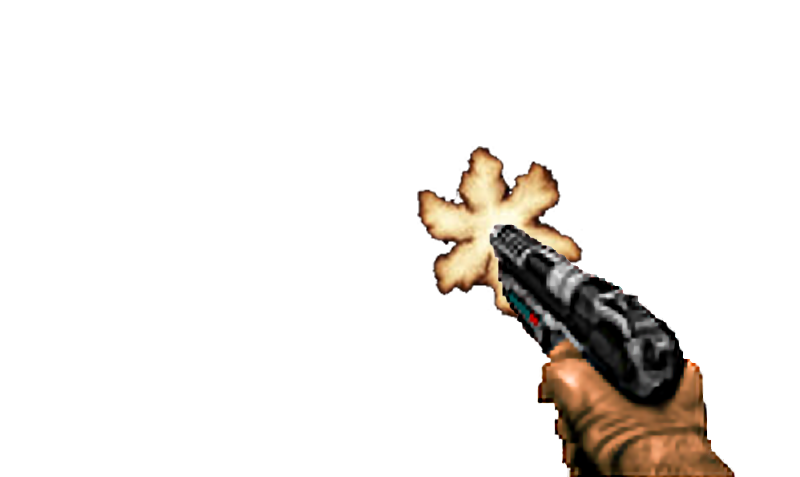
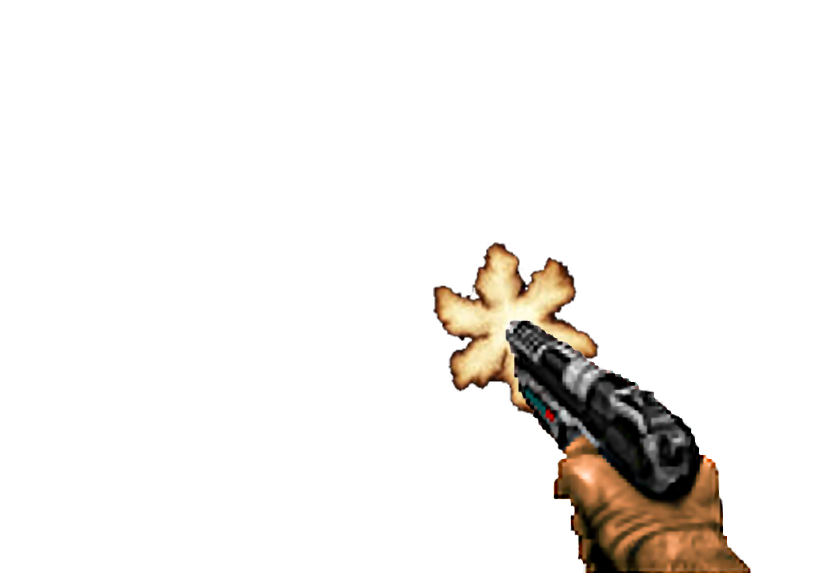
ajout sprites de tir

Changed region(s): [[0.5, 0.2935, 0.9375, 1.0]]

diff --git a/srcs/player/t_player2.c b/srcs/player/t_player2.c
@@ -6,7 +6,7 @@
 /*   By: spuisais <spuisais@student.42.fr>          +#+  +:+       +#+        */
 /*                                                +#+#+#+#+#+   +#+           */
 /*   Created: 2020/01/15 15:53:46 by jubeal            #+#    #+#             */
-/*   Updated: 2020/01/20 13:26:11 by spuisais         ###   ########.fr       */
+/*   Updated: 2020/01/21 13:41:02 by spuisais         ###   ########.fr       */
 /*                                                                            */
 /* ************************************************************************** */
 
@@ -95,12 +95,13 @@ void	shoot_weapon2(t_engine *engine, t_weapon *weapon, t_mesh *target,
 	Mix_PlayChannel(-1, engine->sound_engine->sounds[weapon->index + 7], 0);
 }
 
-void	shoot_weapon(t_engine *engine)
+void	shoot_weapon(t_engine *engine, t_camera *cam, t_texture **texture_weapons)
 {
 	t_mesh		*target;
 	t_weapon	*weapon;
 	float		dist;
-
+	static	int i = 0;
+	
 	dist = 0.0;
 	weapon = engine->user_engine->player->current_weapon;
 	if (ft_strcmp(weapon->name, "bb") == 0)
@@ -110,6 +111,10 @@ void	shoot_weapon(t_engine *engine)
 	{
 		if (weapon->ammo > 0)
 		{
+			t_view_port_clear_buffers(cam->view_port);
+			draw_rectangle_texture_cpu(cam->view_port, new_rectangle(
+			create_vec2(-0.65, -0.1), create_vec2(1.3, -0.9)),
+			texture_weapons[engine->user_engine->player->current_weapon->index + 6]);
 			shoot_weapon2(engine, weapon, target, dist);
 			if (ft_strcmp(weapon->name, "ar") == 0)
 				weapon->ammo -= 2;
@@ -174,7 +179,7 @@ void	player_action3(t_camera *camera, t_engine *engine, t_mesh **door, int i)
 		door[1] = target;
 }
 
-void	player_action4(t_camera *camera, t_engine *engine, t_mesh **door)
+void	player_action4(t_camera *camera, t_engine *engine, t_mesh **door, t_texture **texture_weapons)
 {
 	change_weapon(engine->user_engine->keyboard, engine->user_engine->player);
 	if (door[0] != NULL)
@@ -183,7 +188,7 @@ void	player_action4(t_camera *camera, t_engine *engine, t_mesh **door)
 		t_mesh_move_elevator(door[1], camera->body);
 	if (engine->user_engine->player->shoot_time != engine->tick
 			&& camera->r_press != 1)
-		shoot_weapon(engine);
+		shoot_weapon(engine, camera, texture_weapons);
 	if (engine->user_engine->player->hp <= 0)
 	{
 		Mix_PlayChannel(-1, engine->sound_engine->sounds[15], 0);
@@ -215,7 +220,7 @@ void	player_action4(t_camera *camera, t_engine *engine, t_mesh **door)
 // 	player_action4(camera, engine, door);
 // }
 
-void	player_action(t_camera *camera, t_keyboard *p_keyboard, t_engine *engine)
+void	player_action(t_camera *camera, t_keyboard *p_keyboard, t_engine *engine, t_texture **texture_weapons)
 {
 	static t_mesh	*door = NULL;
 	static t_mesh	*elevator = NULL;
@@ -274,7 +279,7 @@ void	player_action(t_camera *camera, t_keyboard *p_keyboard, t_engine *engine)
 	if (camera->r_press == 1)
 		reload_weapon(camera, engine->user_engine->player, engine->tick, engine);
 	if (engine->user_engine->player->shoot_time != engine->tick && camera->r_press != 1)
-		shoot_weapon(engine);
+		shoot_weapon(engine, camera, texture_weapons);
 	if (engine->user_engine->player->hp <= 0)
 	{
 		Mix_PlayChannel(-1, engine->sound_engine->sounds[15], 0);

diff --git a/srcs/main.c b/srcs/main.c
@@ -50,13 +50,23 @@ int main(int argc, char **argv)
 	texture2[5] = png_load("ressources/assets/imgs/Hands_baby.png");
 
 
-	t_texture *texture_weapons[6];
-	texture_weapons[0] = png_load("ressources_backup/assets/imgs/pistol.png");
-	texture_weapons[1] = png_load("ressources_backup/assets/imgs/AR.png");
-	texture_weapons[2] = png_load("ressources_backup/assets/imgs/rifle.png");
-	texture_weapons[3] = png_load("ressources_backup/assets/imgs/shotgun.png");
-	texture_weapons[4] = png_load("ressources_backup/assets/imgs/wall_destroyer.png");
+	t_texture *texture_weapons[16];
+	texture_weapons[0] = png_load("ressources/assets/imgs/pistol.png");
+	texture_weapons[1] = png_load("ressources/assets/imgs/ar.png");
+	texture_weapons[2] = png_load("ressources/assets/imgs/rifle.png");
+	texture_weapons[3] = png_load("ressources/assets/imgs/shotgun.png");
+	texture_weapons[4] = png_load("ressources/assets/imgs/wall_destroyer.png");
 	texture_weapons[5] = png_load("ressources/assets/imgs/Hands_baby.png");
+	texture_weapons[6] = png_load("ressources/assets/imgs/pistol_shoot_0.png");
+	texture_weapons[7] = png_load("ressources/assets/imgs/ar_shoot_0.png");
+	texture_weapons[8] = png_load("ressources/assets/imgs/rifle_shoot_0.png");
+	texture_weapons[9] = png_load("ressources/assets/imgs/shotgun_shoot_0.png");
+	texture_weapons[10] = png_load("ressources/assets/imgs/wall_destroyer_shoot_0.png");
+	texture_weapons[11] = png_load("ressources/assets/imgs/pistol_shoot_1.png");
+	texture_weapons[12] = png_load("ressources/assets/imgs/ar_shoot_1.png");
+	texture_weapons[13] = png_load("ressources/assets/imgs/rifle_shoot_1.png");
+	texture_weapons[14] = png_load("ressources/assets/imgs/shotgun_shoot_1.png");
+	texture_weapons[15] = png_load("ressources/assets/imgs/wall_destroyer_shoot_1.png");
 
 	t_texture *skybox = png_load("ressources/assets/textures/skybox.png");
 
@@ -147,7 +157,7 @@ int main(int argc, char **argv)
 			t_engine_draw_mesh(engine);
 
 			t_engine_render_camera(engine);
-			player_action(main_camera, engine->user_engine->keyboard, engine);
+			player_action(main_camera, engine->user_engine->keyboard, engine, texture_weapons);
 			enemy_look(engine);
 			enemy_shoot(engine);
 			enemy_move(engine);

diff --git a/includes/unknow_project_engine.h b/includes/unknow_project_engine.h
@@ -3,10 +3,10 @@
 /*                                                        :::      ::::::::   */
 /*   unknow_project_engine.h                            :+:      :+:    :+:   */
 /*                                                    +:+ +:+         +:+     */
-/*   By: gboutin <gboutin@student.42.fr>            +#+  +:+       +#+        */
+/*   By: spuisais <spuisais@student.42.fr>          +#+  +:+       +#+        */
 /*                                                +#+#+#+#+#+   +#+           */
 /*   Created: 2020/01/20 16:45:15 by gboutin           #+#    #+#             */
-/*   Updated: 2020/01/20 16:48:32 by gboutin          ###   ########.fr       */
+/*   Updated: 2020/01/21 13:52:51 by spuisais         ###   ########.fr       */
 /*                                                                            */
 /* ************************************************************************** */
 
@@ -55,9 +55,10 @@ void				move_cam(t_camera *camera, t_keyboard *key,
 void				t_user_engine_handle_camera(t_engine *engine,
 											t_camera *cam, t_window *p_win);
 void				t_physic_engine_apply_force(t_engine *engine);
-void				player_action(t_camera *camera,
-									t_keyboard *p_keyboard, t_engine *engine);
-void				shoot_weapon(t_engine *engine);
+void				player_action(t_camera *camera, t_keyboard *p_keyboard,
+								t_engine *engine, t_texture **texture_weapons);
+void				shoot_weapon(t_engine *engine, t_camera *camera,
+								t_texture **texture_weapons);
 void				player_take_dmg(t_engine *engine, int dmg);
 void				enemy_shoot(t_engine *engine);
 void				enemy_look(t_engine *engine);

diff --git a/srcs/gui/drawing_front.c b/srcs/gui/drawing_front.c
@@ -3,10 +3,10 @@
 /*                                                        :::      ::::::::   */
 /*   drawing_front.c                                    :+:      :+:    :+:   */
 /*                                                    +:+ +:+         +:+     */
-/*   By: gboutin <gboutin@student.42.fr>            +#+  +:+       +#+        */
+/*   By: spuisais <spuisais@student.42.fr>          +#+  +:+       +#+        */
 /*                                                +#+#+#+#+#+   +#+           */
 /*   Created: 2020/01/15 15:55:48 by spuisais          #+#    #+#             */
-/*   Updated: 2020/01/20 11:21:46 by gboutin          ###   ########.fr       */
+/*   Updated: 2020/01/21 13:13:06 by spuisais         ###   ########.fr       */
 /*                                                                            */
 /* ************************************************************************** */
 
